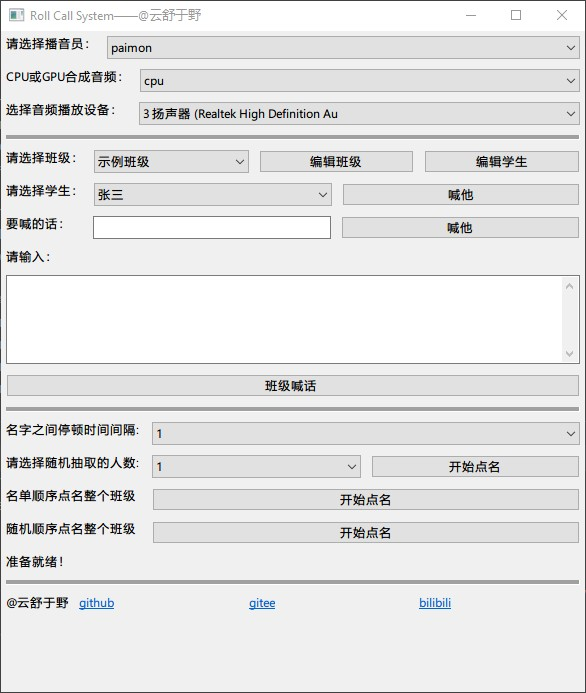
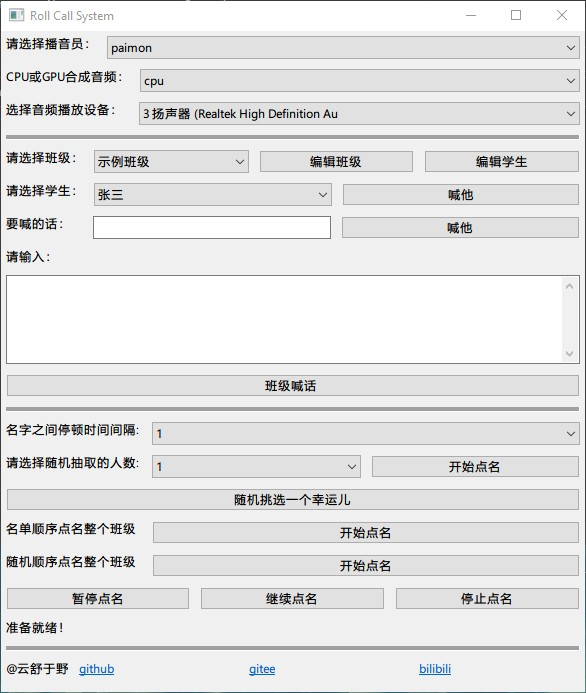
code

diff --git a/main.py b/main.py
@@ -1,5 +1,8 @@
 # 导入所需的模块
 import re
+import threading
+import time
+
 import wx
 import wx.adv
 import random
@@ -9,11 +12,14 @@ from EditClass import EditClass
 from EditStudents import EditStudents
 from backup_json import BackUp
 from loadConfig import LoadConfig
+from Roulette import Roulette
 
 
 # 定义一个窗口类，继承自wx.Frame
 class MyFrame(wx.Frame):
     def __init__(self):
+        self.t_flag = threading.Event()  # 用于暂停线程的标识
+        self.t_running = threading.Event()  # 用于停止线程的标识
         self.classes_name = {'示例班级': ['学生1', '学生2', '学生3']}
         self.bj = BackUp(self)  # 用于序列化self.classes_name
         self.bj.get_back_up()
@@ -21,7 +27,7 @@ class MyFrame(wx.Frame):
         self.par = self.lc.getParser()
 
         # 调用父类的构造函数，设置窗口标题和大小
-        super().__init__(None, title="Roll Call System——@云舒于野", size=(600, 700))
+        super().__init__(None, title="Roll Call System", size=(600, 700))
 
         # 使用 `wx.EvtHandler.Bind()` 方法，
         # 绑定 `wx.EVT_CLOSE`事件。这个事件会在用户关闭程序的主窗口时触发，可以在事件处理函数中执行一些自定义的操作，比如询问用户是否保存修改、释放一些内存等。
@@ -159,6 +165,9 @@ class MyFrame(wx.Frame):
         self.button_students = wx.Button(panel, label="开始点名")
         self.button_students.Bind(wx.EVT_BUTTON, self.call_stus_random)
 
+        self.button_lucky = wx.Button(panel, label="随机挑选一个幸运儿")
+        self.button_lucky.Bind(wx.EVT_BUTTON, self.luck_one)
+
         self.label_random = wx.StaticText(panel, label="随机顺序点名整个班级  ")
         self.button_random = wx.Button(panel, label="开始点名")
         self.button_random.Bind(wx.EVT_BUTTON, self.call_all_stus_random)
@@ -166,6 +175,13 @@ class MyFrame(wx.Frame):
         self.label_all = wx.StaticText(panel, label="名单顺序点名整个班级  ")
         self.button_all = wx.Button(panel, label="开始点名")
         self.button_all.Bind(wx.EVT_BUTTON, self.call_all_stus)
+
+        self.button_pause = wx.Button(panel, label="暂停点名")
+        self.button_pause.Bind(wx.EVT_BUTTON, self.call_pause)
+        self.button_resume = wx.Button(panel, label="继续点名")
+        self.button_resume.Bind(wx.EVT_BUTTON, self.call_resume)
+        self.button_stop = wx.Button(panel, label="停止点名")
+        self.button_stop.Bind(wx.EVT_BUTTON, self.call_stop)
 
         self.label_log = wx.StaticText(panel, label="准备就绪！")
 
@@ -243,6 +259,10 @@ class MyFrame(wx.Frame):
         hbox3.Add(self.choice_students, 80, wx.EXPAND | wx.ALL, 5)
         hbox3.Add(self.button_students, 80, wx.EXPAND | wx.ALL, 5)
 
+        hbox3_1 = wx.BoxSizer(wx.HORIZONTAL)
+        hbox3_1.Add(self.button_lucky, 80, wx.EXPAND | wx.ALL, 5)
+
+
         hbox3_0 = wx.BoxSizer(wx.HORIZONTAL)
         hbox3_0.Add(self.label_all, 0, wx.EXPAND | wx.ALL, 5)
         hbox3_0.Add(self.button_all, 70, wx.EXPAND | wx.ALL, 5)
@@ -250,6 +270,11 @@ class MyFrame(wx.Frame):
         hbox4 = wx.BoxSizer(wx.HORIZONTAL)
         hbox4.Add(self.label_random, 0, wx.EXPAND | wx.ALL, 5)
         hbox4.Add(self.button_random, 70, wx.EXPAND | wx.ALL, 5)
+
+        hbox4_1 = wx.BoxSizer(wx.HORIZONTAL)
+        hbox4_1.Add(self.button_pause, 70, wx.EXPAND | wx.ALL, 5)
+        hbox4_1.Add(self.button_resume, 70, wx.EXPAND | wx.ALL, 5)
+        hbox4_1.Add(self.button_stop, 70, wx.EXPAND | wx.ALL, 5)
 
         hbox4_0 = wx.BoxSizer(wx.HORIZONTAL)
         hbox4_0.Add(self.label_log, 0, wx.EXPAND | wx.ALL, 5)
@@ -278,8 +303,10 @@ class MyFrame(wx.Frame):
         vbox.Add(hbox2_2, 0, wx.EXPAND)
         vbox.Add(hbox2_3, 0, wx.EXPAND)
         vbox.Add(hbox3, 0, wx.EXPAND)
+        vbox.Add(hbox3_1, 0, wx.EXPAND)
         vbox.Add(hbox3_0, 0, wx.EXPAND)
         vbox.Add(hbox4, 0, wx.EXPAND)
+        vbox.Add(hbox4_1, 0, wx.EXPAND)
         vbox.Add(hbox4_0, 0, wx.EXPAND)
         vbox.Add(hbox5, 0, wx.EXPAND)
         vbox.Add(hbox6, 0, wx.EXPAND)
@@ -323,7 +350,6 @@ class MyFrame(wx.Frame):
                 self.choice_students.SetSelection(0)
         else:
             self.choice_students.SetItems([])
-
 
     def choseClass(self, event):
         item_index = self.choice_classes.GetSelection()
@@ -431,14 +457,6 @@ class MyFrame(wx.Frame):
         # 刷新随机人数列表
         self.refresh_random_list()
 
-    def call_stu(self, event):
-        try:
-            t = Thread(target=self.call_stu_)
-            t.daemon = True
-            t.start()
-        except:
-            print("find_pwd Error: unable to start thread")
-
     # 有班级并且有学生被选中
     def stu_was_chosen(self):
         if self.no_class is False:
@@ -446,6 +464,14 @@ class MyFrame(wx.Frame):
             students = self.classes_name[chosen_class]
             if len(students) >= 1:
                 return True
+
+    def call_stu(self, event):
+        try:
+            t = Thread(target=self.call_stu_)
+            t.daemon = True
+            t.start()
+        except:
+            print("find_pwd Error: unable to start thread")
 
     def call_stu_(self):
         if self.stu_was_chosen():
@@ -523,11 +549,35 @@ class MyFrame(wx.Frame):
             self.label_log.SetLabel("error2: 没有学生被选中")
             print("没有学生被选中")
 
+    def call_pause(self, event):
+        self.t_flag.clear()  # 设置为False, 让线程阻塞
+
+    def call_resume(self, event):
+        self.t_flag.set()  # 设置为True, 让线程停止阻塞
+
+    def call_stop(self, event):
+        self.t_flag.set()  # 将线程从暂停状态恢复, 如何已经暂停的话
+        self.t_running.clear()  # 设置为False
+
+    def luck_one(self, event):
+        chosen_class = self.choices_classes[self.chosen_class_index]
+        students = self.classes_name[chosen_class]
+        self.r = Roulette('抽取一个幸运儿', students)
+        self.r.start()
+        self.r.draw_wheel()
+        # 播放hhhhh的音频
+        # self.pv.play_voice_audio_file('./sources/ohhhh.wav', self.chosen_device_index)
+        # self.pv.play_voice_('./sources/ohhhh.wav')
+
     def call_all_stus_random(self, event):
         try:
-            t = Thread(target=self.call_all_stus_random_)
-            t.daemon = True
-            t.start()
+            t_r = Thread(target=self.call_all_stus_random_)
+            t_r.daemon = True
+            # 通过标志位来控制线程阻塞、继续和终止
+            self.t_running.set()  # 将running设置为True
+            self.t_flag.set()  # 将flag设置为True
+            t_r.start()
+            # 如果点击了暂停按钮->阻塞子线程
         except:
             print("find_pwd Error: unable to start thread")
 
@@ -540,7 +590,16 @@ class MyFrame(wx.Frame):
                 chosen_class = self.choices_classes[self.chosen_class_index]
                 students = self.classes_name[chosen_class]
                 stu_names = self.generate_random_names(len(students))
-                self.pv.roll_call(stu_names, self.chosen_device_index, self.pause_time)
+                if students_num >= 1:
+                    chosen_class = self.choices_classes[self.chosen_class_index]
+                    students = self.classes_name[chosen_class]
+                    for i in range(len(students)):
+                        if self.t_running.is_set():
+                            if i == (len(students) - 1):
+                                self.t_running.clear()
+                            self.t_flag.wait()  # 为True时立即返回, 为False时阻塞直到内部的标识位为True后返回
+                            self.pv.roll_call(students[i], self.chosen_device_index, self.pause_time)
+                # self.pv.roll_call_list(stu_names, self.chosen_device_index, self.pause_time)
             else:
                 self.label_log.SetLabel("error: 这个班级没有学生")
                 print("这个班级没有学生")
@@ -550,9 +609,12 @@ class MyFrame(wx.Frame):
 
     def call_all_stus(self, event):
         try:
-            t = Thread(target=self.call_all_stus_)
-            t.daemon = True
-            t.start()
+            t_a = Thread(target=self.call_all_stus_)
+            t_a.daemon = True
+            # 通过标志位来控制线程阻塞、继续和终止
+            self.t_running.set()  # 将running设置为True
+            self.t_flag.set()  # 将flag设置为True
+            t_a.start()
         except:
             print("find_pwd Error: unable to start thread")
 
@@ -564,7 +626,13 @@ class MyFrame(wx.Frame):
             if students_num >= 1:
                 chosen_class = self.choices_classes[self.chosen_class_index]
                 students = self.classes_name[chosen_class]
-                self.pv.roll_call(students, self.chosen_device_index, self.pause_time)
+                for i in range(len(students)):
+                    if self.t_running.is_set():
+                        if i == (len(students)-1):
+                            self.t_running.clear()
+                        self.t_flag.wait()  # 为True时立即返回, 为False时阻塞直到内部的标识位为True后返回
+                        self.pv.roll_call(students[i], self.chosen_device_index, self.pause_time)
+                # self.pv.roll_call_list(students, self.chosen_device_index, self.pause_time)
             else:
                 self.label_log.SetLabel("error: 这个班级没有学生")
                 print("这个班级没有学生")

diff --git a/Roulette.py b/Roulette.py
@@ -1,0 +1,119 @@
+
+import tkinter as tk
+import random
+import math
+
+class Roulette():
+    def __init__(self, title, prizes):
+        # 创建一个窗口对象
+        self.window = tk.Tk()
+        self.window.title(title)
+
+        # 创建一个画布对象，用来绘制轮盘
+        self.canvas = tk.Canvas(self.window, width=300, height=300)
+        self.canvas.pack()
+
+        # 创建一个标签对象，用来显示奖项名称和提示信息
+        self.label = tk.Label(self.window, text="")
+        self.label.pack()
+
+        # 定义轮盘的颜色列表
+        self.colors = ["red", "orange", "yellow", "green", "blue", "purple"]
+
+        # 定义轮盘的奖项名称列表
+        self.prizes = prizes
+
+        # 定义轮盘的半径
+        self.radius = 100
+
+        # 定义轮盘的中心坐标
+        self.center_x = 150
+        self.center_y = 150
+
+        # 定义轮盘的每个扇形的角度
+        self.angle = 360 / len(self.prizes)
+
+    # 定义一个函数，用来绘制轮盘
+    def draw_wheel(self):
+        # 定义轮盘的起始角度
+        start_angle = 0
+
+        # 遍历颜色列表，绘制轮盘的每个扇形
+        for i in range(len(self.prizes)):
+            # 计算扇形的结束角度
+            end_angle = start_angle + self.angle
+
+            # 计算扇形的弧度
+            radians = (start_angle + end_angle) / 2 * 3.14 / 180
+
+            # 计算扇形的文本坐标
+            text_x = self.center_x + self.radius * 0.8 * math.cos(radians)
+            text_y = self.center_y + self.radius * 0.8 * math.sin(radians)
+
+            # 绘制扇形
+            self.canvas.create_arc(self.center_x - self.radius, self.center_y - self.radius, self.center_x + self.radius, self.center_y + self.radius, start=start_angle, extent=self.angle, fill=self.colors[i % 6])
+
+            # # 绘制文本
+            # self.canvas.create_text(text_x, text_y, text=self.prizes[i])
+
+            # 更新起始角度
+            start_angle = end_angle
+
+        # 遍历颜色列表，绘制轮盘的每个扇形
+        for i in range(len(self.prizes)):
+            # 计算扇形的结束角度
+            end_angle = start_angle + self.angle
+
+            # 计算扇形的弧度
+            radians = (start_angle + end_angle) / 2 * 3.14 / 180
+
+            # 计算扇形的文本坐标
+            text_x = self.center_x + self.radius * 0.8 * math.cos(radians)
+            text_y = self.center_y + self.radius * 0.8 * math.sin(radians)
+
+            # 绘制文本
+            self.canvas.create_text(text_x, text_y, text=self.prizes[i])
+
+            # 更新起始角度
+            start_angle = end_angle
+
+        self.window.mainloop()
+
+
+    # 定义一个函数，用来旋转轮盘
+    def spin_wheel(self):
+        # 随机生成一个旋转的角度
+        spin_angle = random.randint(0, 360)
+
+        # 旋转画布
+        # canvas.rotate(spin_angle)
+        self.canvas.create_text(100, 100, text='', angle=spin_angle)
+
+        # 计算奖项编号
+        prize_index = int((spin_angle // self.angle) % len(self.prizes))
+
+        # 获取奖项名称
+        prize = self.prizes[prize_index]
+
+        # 显示奖项名称和提示信息
+        self.label.config(text=f"恭喜 {prize} 成为幸运儿！")
+
+    def start(self):
+        # 创建一个按钮对象，用来触发旋转轮盘的函数
+        button = tk.Button(self.window, text="开始抽奖", command=self.spin_wheel)
+        button.pack()
+
+if __name__ == "__main__":
+    # # 创建一个按钮对象，用来触发旋转轮盘的函数
+    # button = tk.Button(window, text="开始抽奖", command=spin_wheel)
+    # button.pack()
+    #
+    # # 调用绘制轮盘的函数
+    # draw_wheel()
+    #
+    # # 进入主循环
+    # window.mainloop()
+    prizes = ["iPhone 13", "iPad Pro", "AirPods", "MacBook Air", "Apple Watch", "谢谢参与"]
+    r = Roulette("轮盘游戏", prizes)
+    r.start()
+    r.draw_wheel()

diff --git a/PlayVoice.py b/PlayVoice.py
@@ -5,6 +5,8 @@
 import os
 import re
 import time
+import wave
+import numpy as np
 import soundfile as sf
 import sounddevice as sd
 from TTS import TTService
@@ -111,11 +113,32 @@ class PlayVoice():
     def play_voice_(self, path):
         playsound(path)
 
-    # 点名
-    def roll_call(self, stu_names, device_index, pause):
+    def play_voice_audio_file(self, audio_file, device_index):
+        # Load the audio file
+        with wave.open(audio_file, 'rb') as wf:
+            audio_data = wf.readframes(-1)
+            sample_width = wf.getsampwidth()
+            channels = wf.getnchannels()
+            sample_rate = wf.getframerate()
+            # Convert the audio data to a NumPy array
+        audio_array = np.frombuffer(audio_data, dtype=np.int16)
+
+        # 设置默认的输出设备
+        sd.default.device = device_index
+        # Play the audio
+        sd.play(audio_array, sample_rate)
+        sd.wait()
+
+    # 点名（列表）
+    def roll_call_list(self, stu_names, device_index, pause):
         for i in stu_names:
             time.sleep(pause)
             self.play_voice(i, device_index)
+
+    # 点一个名字
+    def roll_call(self, stu_name, device_index, pause):
+        time.sleep(pause)
+        self.play_voice(stu_name, device_index)
 
 
 del PlayVoice.generate_voice_file
@@ -130,8 +153,9 @@ if __name__ == '__main__':
     resp_text = "张三 李四 王五"
     # pv.play_voice_file(resp_text, 3)
     # pv.play_voice(resp_text, 3)
-    pv.change_speed('paimon', 1)
-    pv.play_voice(resp_text, 3)
+    # pv.change_speed('paimon', 1)
+    # pv.play_voice(resp_text, 3)
+    pv.play_voice_audio_file('./sources/ohhhh.wav', 3)
 
 
 '''
